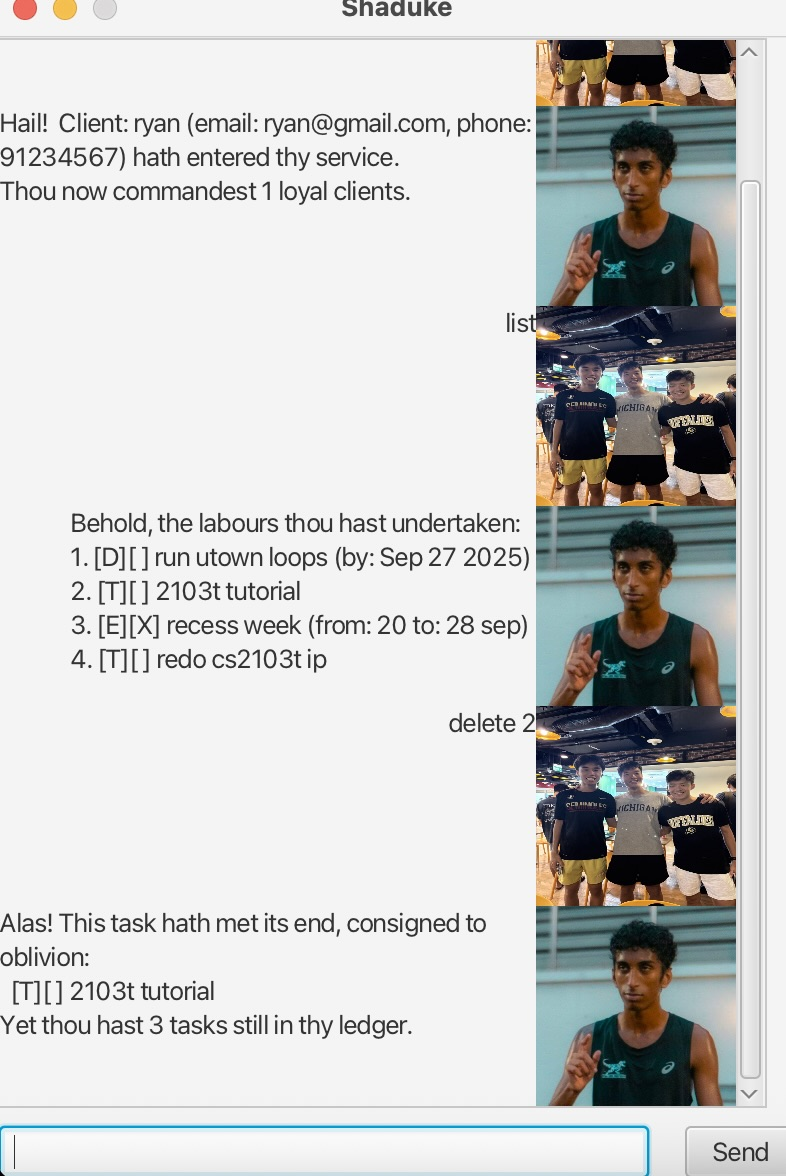
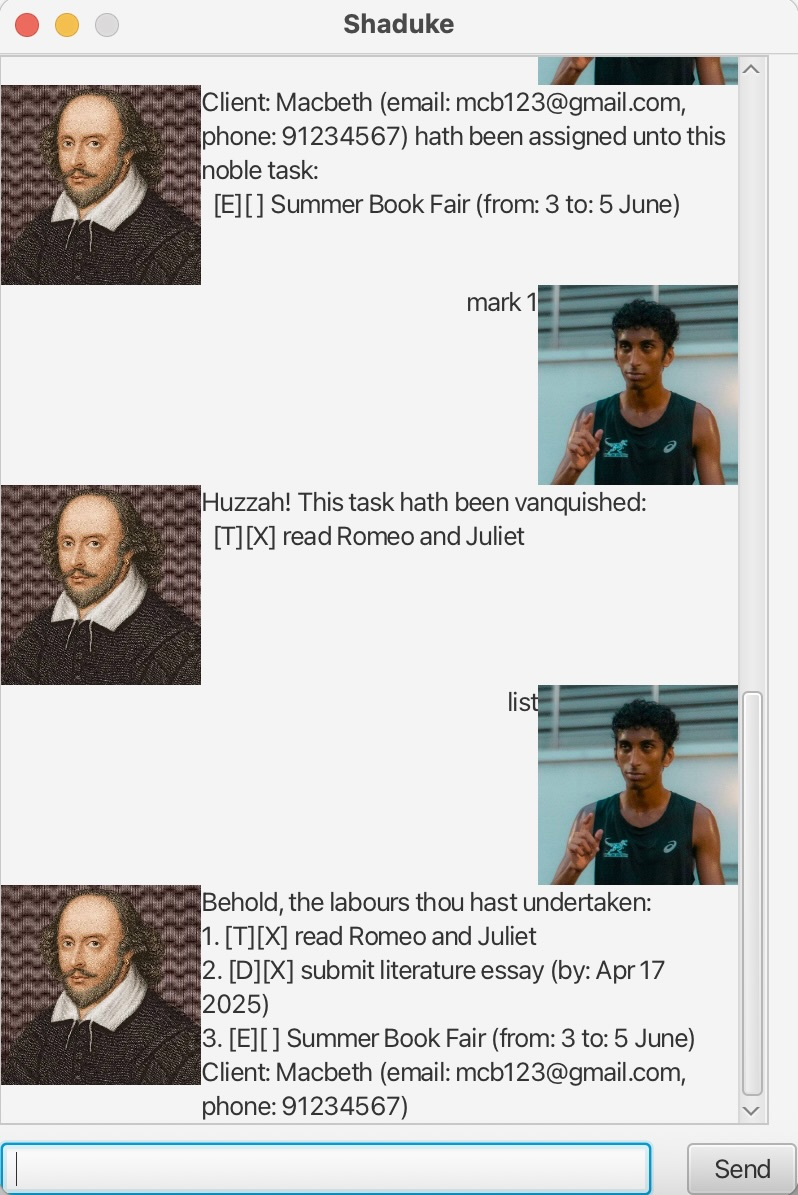
Improve GUI

diff --git a/src/main/java/shaduke/commands/Command.java b/src/main/java/shaduke/commands/Command.java
@@ -7,25 +7,45 @@ import shaduke.ui.GuiUi;
 import shaduke.ui.Ui;
 
 /**
- * Abstract class with the methods to be implemented.
+ * Represents an abstract user command that can be executed.
+ * <p>
+ * Subclasses of {@code Command} implement specific actions such as
+ * adding tasks, marking tasks, deleting tasks, or exiting the program.
+ * </p>
  */
 public abstract class Command {
+
     /**
-     * Carries out the command given.
+     * Executes the command logic.
      *
-     * @param tasks the current list of tasks.
-     * @param ui the user interface object.
-     * @param storage the storage object.
+     * @param tasks   the current {@link TaskList} containing all tasks.
+     * @param ui      the {@link Ui} object responsible for displaying output.
+     * @param storage the {@link Storage} object responsible for saving task data.
      */
     public abstract void execute(TaskList tasks, Ui ui, Storage storage);
 
     /**
-     * Returns true if the command is the Exit command, false otherwise.
+     * Indicates whether this command is an exit command.
+     *
+     * @return {@code true} if this command will cause the application to exit,
+     *         {@code false} otherwise
      */
     public abstract boolean isExit();
 
+    /**
+     * Executes the command and returns the output as a {@link String}.
+     * <p>
+     * This method is mainly used by the GUI layer, which requires
+     * commands to produce an output string instead of printing directly.
+     * </p>
+     *
+     * @param tasks   the current {@link TaskList} containing all tasks.
+     * @param storage the {@link Storage} object responsible for saving task data.
+     * @return the output message(s) generated by executing the command.
+     * @throws ShadukeException if execution fails due to invalid input or other errors.
+     */
     public String executeAndReturn(TaskList tasks, Storage storage) throws ShadukeException {
-        GuiUi tempUi = new GuiUi(); // e.g. UI that buffers instead of printing
+        GuiUi tempUi = new GuiUi(); // temporary UI that buffers output instead of printing
         this.execute(tasks, tempUi, storage);
         return tempUi.getOutput();
     }

diff --git a/src/main/java/shaduke/ui/GuiUi.java b/src/main/java/shaduke/ui/GuiUi.java
@@ -9,7 +9,7 @@ import java.util.ArrayList;
 import java.util.List;
 
 /**
- * Class that doth converse with the user in the tongue of the Bard, for GUI output.
+ * Class that deals with interactions with the user throught the GUI.
  */
 public class GuiUi extends Ui {
     private final List<String> messages;
@@ -31,7 +31,6 @@ public class GuiUi extends Ui {
         return sb.toString();
     }
 
-    // ----------------- Task Messages -----------------
     @Override
     public void showGreeting() {
         addMessage("Hail, noble friend! I am thy humble servant, acow123_bot.");
@@ -93,17 +92,19 @@ public class GuiUi extends Ui {
         }
     }
 
-    // ----------------- Client Messages -----------------
+    @Override
     public void showAddClient(Client client, ClientList clients) {
         addMessage("Hail! " + client + " hath entered thy service.");
         addMessage("Thou now commandest " + clients.size() + " loyal clients.");
     }
 
+    @Override
     public void showAssignClient(Task task, Client client) {
         addMessage(client + " hath been assigned unto this noble task:");
         addMessage("  " + task);
     }
 
+    @Override
     public void showClients(ClientList clients) {
         addMessage("Behold, thy valiant clients:");
         for (int i = 0; i < clients.size(); i++) {
@@ -111,14 +112,17 @@ public class GuiUi extends Ui {
         }
     }
 
+    @Override
     public void showDeleteClient(Client client) {
         addMessage("Alas! " + client + " hath departed from thy fold.");
     }
 
+    @Override
     public void showLeave(int index, Client client) {
         addMessage(client + " hath forsaken the task numbered " + (index + 1));
     }
 
+    @Override
     public void showClientTasks(TaskList tasks, Client client) {
         addMessage("Tasks wherein " + client + " doth partake:");
         for (int i = 0; i < tasks.size(); i++) {

diff --git a/src/main/java/shaduke/ui/Ui.java b/src/main/java/shaduke/ui/Ui.java
@@ -50,6 +50,11 @@ public class Ui {
         System.out.println("Thou now possesseth " + size + " noble charges to fulfill.");
     }
 
+    /**
+     * Displays all current tasks.
+     *
+     * @param tasks The current list of tasks.
+     */
     public void showList(TaskList tasks) {
         System.out.println("Behold, the labours thou hast undertaken:");
         for (int i = 0; i < tasks.size(); i++) {
@@ -117,6 +122,12 @@ public class Ui {
         }
     }
 
+    /**
+     * The message that confirms a client has been added.
+     *
+     * @param client The client being added.
+     * @param clients The current list of clients.
+     */
     public void showAddClient(Client client, ClientList clients) {
         System.out.println("Hail! " + client + " hath entered thy service.");
         System.out.println("Thou now commandest " + clients.size() + " loyal clients.");
@@ -131,6 +142,11 @@ public class Ui {
         System.out.println(client + " added to " + task);
     }
 
+    /**
+     * Displays all added clients.
+     *
+     * @param clients The current list of clients.
+     */
     public void showClients(ClientList clients) {
         System.out.println("Behold, thy valiant clients:");
         for (int i = 0; i < clients.size(); i++) {
@@ -138,6 +154,11 @@ public class Ui {
         }
     }
 
+    /**
+     * Displays a message confirming a client has been deleted.
+     *
+     * @param client The client to be deleted.
+     */
     public void showDeleteClient(Client client) {
         System.out.println("Alas! " + client + " hath departed from thy fold.");
     }

diff --git a/src/main/java/shaduke/Main.java b/src/main/java/shaduke/Main.java
@@ -73,7 +73,7 @@ public class Main extends Application {
         AnchorPane.setBottomAnchor(userInput, 1.0);
 
         String greeting = "Hello! I'm Shaduke. How can I help you today?";
-        dialogContainer.getChildren().add(new DialogBox(greeting, dukeImage));
+        dialogContainer.getChildren().add(DialogBox.getDukeDialog(greeting, dukeImage));
 
         //handling user input
         sendButton.setOnMouseClicked((event) -> {
@@ -95,8 +95,8 @@ public class Main extends Application {
         String userText = userInput.getText();
         String dukeText = shaduke.getResponse(userInput.getText());
         dialogContainer.getChildren().addAll(
-                new DialogBox(userText, userImage),
-                new DialogBox(dukeText, dukeImage)
+                DialogBox.getUserDialog(userText, userImage),
+                DialogBox.getDukeDialog(dukeText, dukeImage)
         );
         userInput.clear();
     }

diff --git a/src/main/java/shaduke/DialogBox.java b/src/main/java/shaduke/DialogBox.java
@@ -1,6 +1,9 @@
 package shaduke;
 
+import javafx.collections.FXCollections;
+import javafx.collections.ObservableList;
 import javafx.geometry.Pos;
+import javafx.scene.Node;
 import javafx.scene.control.Label;
 import javafx.scene.image.Image;
 import javafx.scene.image.ImageView;
@@ -24,4 +27,20 @@ public class DialogBox extends HBox {
         this.getChildren().addAll(text, displayPicture);
     }
 
+    private void flip() {
+        this.setAlignment(Pos.TOP_LEFT);
+        ObservableList<Node> tmp = FXCollections.observableArrayList(this.getChildren());
+        FXCollections.reverse(tmp);
+        this.getChildren().setAll(tmp);
+    }
+
+    public static DialogBox getUserDialog(String s, Image i) {
+        return new DialogBox(s, i);
+    }
+
+    public static DialogBox getDukeDialog(String s, Image i) {
+        var db = new DialogBox(s, i);
+        db.flip();
+        return db;
+    }
 }

diff --git a/src/main/java/shaduke/Shaduke.java b/src/main/java/shaduke/Shaduke.java
@@ -13,7 +13,7 @@ import java.util.Objects;
 
 /**
  * The ACow program is the main entry point to an application
- * that stores and manages todo list tasks
+ * that stores and manages tasks.
  *
  * @author isaactoh
  */
@@ -70,6 +70,12 @@ public class Shaduke {
         }
     }
 
+    /**
+     * Handles responses from the GUI.
+     *
+     * @param input The text input from the GUI.
+     * @return The new message to be displayed on the GUI.
+     */
     public String getResponse(String input) {
         try {
             if (Objects.equals(input.split(" ")[0], "client")) {

diff --git a/src/main/java/shaduke/commands/Parser.java b/src/main/java/shaduke/commands/Parser.java
@@ -39,7 +39,7 @@ public class Parser {
 
     private static Command parseTodo(String rest) {
         if (rest == null || rest.trim().isEmpty()) {
-            throw new ShadukeException("Don't forget to add a tasty curry recipe to your todo list!");
+            throw new ShadukeException("You need to add a description!");
         }
         return new AddCommand(new Todo(rest));
     }
